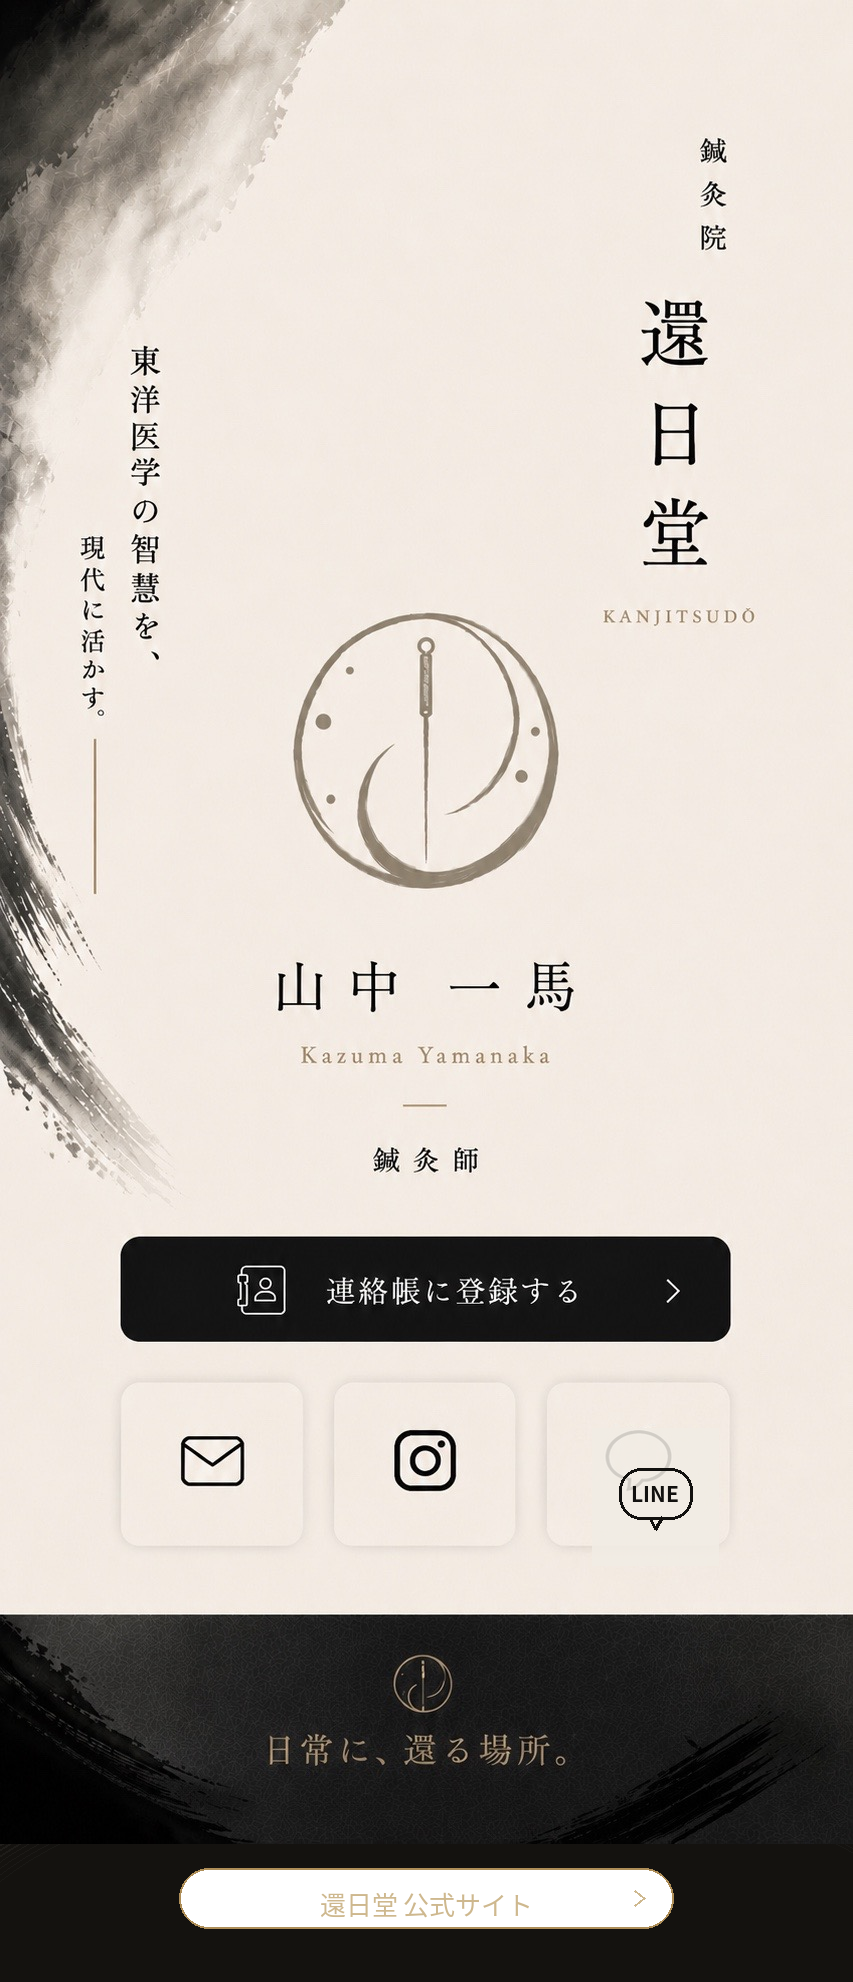
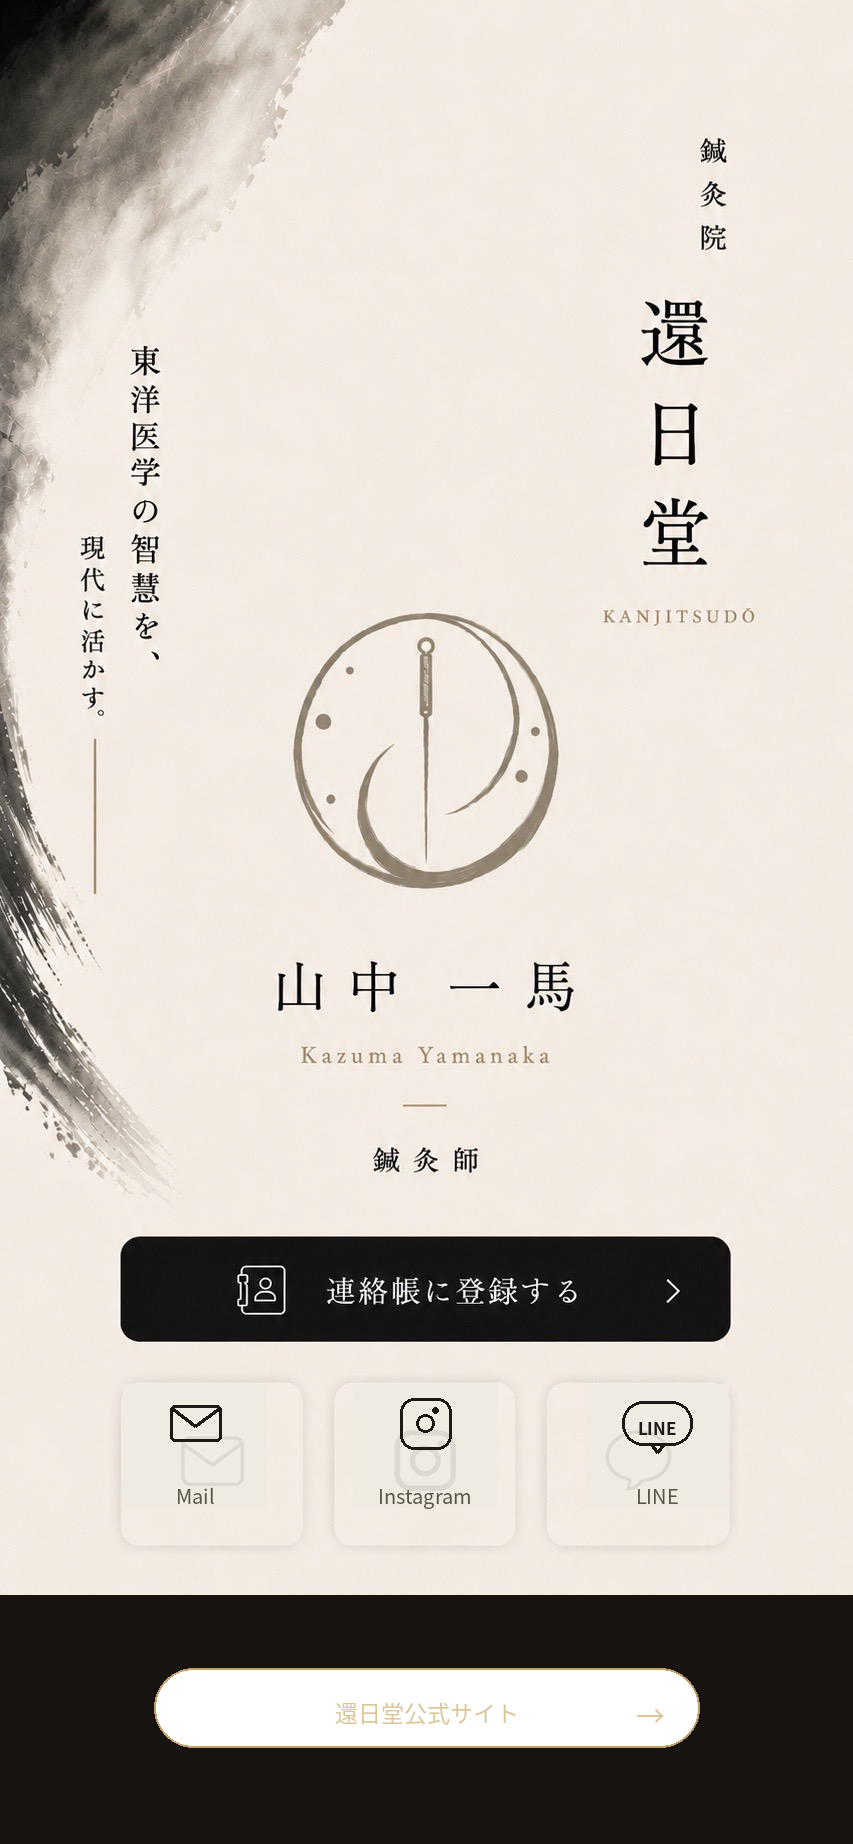
Add files via upload

diff --git a/index.html b/index.html
@@ -5,68 +5,31 @@
 <meta name="viewport" content="width=device-width,initial-scale=1,viewport-fit=cover">
 <title>山中 一馬 | 鍼灸院 還日堂</title>
 <meta name="description" content="鍼灸院 還日堂 鍼灸師 山中一馬のデジタル名刺。">
-
 <style>
 *{box-sizing:border-box}
 html{-webkit-text-size-adjust:100%}
-body{
-  margin:0;
-  background:#eee7dc;
-  font-family:-apple-system,BlinkMacSystemFont,"Helvetica Neue",Arial,sans-serif;
-}
-.page{
-  position:relative;
-  width:100%;
-  max-width:430px;
-  margin:0 auto;
-  background:#f6f0e5;
-  overflow:hidden;
-}
-.design{
-  display:block;
-  width:100%;
-  height:auto;
-  user-select:none;
-  -webkit-user-drag:none;
-}
-.hotspot{
-  position:absolute;
-  z-index:5;
-  display:block;
-  background:rgba(255,255,255,0);
-  border:0;
-  padding:0;
-  cursor:pointer;
-  appearance:none;
-}
-.contact{left:12.0000%;top:63.3584%;width:76.0000%;height:5.3962%;border-radius:12px;}
-.mail{left:11.0000%;top:70.9875%;width:24.0000%;height:10.6993%;border-radius:14px;}
-.instagram{left:38.0000%;top:70.9875%;width:24.0000%;height:10.6993%;border-radius:14px;}
-.line{left:65.0000%;top:70.9875%;width:24.0000%;height:10.6993%;border-radius:14px;}
-.website{left:20.9848%;top:94.2482%;width:57.9132%;height:3.0272%;border-radius:999px;}
-@media(min-width:431px){
-  .page{box-shadow:0 30px 100px rgba(0,0,0,.14)}
-}
+body{margin:0;background:#eee7dc;font-family:-apple-system,BlinkMacSystemFont,"Helvetica Neue",Arial,sans-serif}
+.page{position:relative;width:100%;max-width:430px;margin:0 auto;background:#f6f0e5;overflow:hidden}
+.design{display:block;width:100%;height:auto;user-select:none;-webkit-user-drag:none}
+.hotspot{position:absolute;z-index:5;display:block;background:rgba(255,255,255,0);border:0;padding:0;cursor:pointer;appearance:none}
+.contact{left:11.0000%;top:65.5500%;width:78.0000%;height:5.7500%;border-radius:12px}
+.mail{left:11.1372%;top:73.4816%;width:23.4467%;height:9.4902%;border-radius:14px}
+.instagram{left:38.1008%;top:73.4816%;width:23.4467%;height:9.4902%;border-radius:14px}
+.line{left:65.2989%;top:73.4816%;width:23.4467%;height:9.4902%;border-radius:14px}
+.website{left:18.0539%;top:90.4555%;width:63.8921%;height:4.2842%;border-radius:999px}
+@media(min-width:431px){.page{box-shadow:0 30px 100px rgba(0,0,0,.14)}}
 </style>
 </head>
-
 <body>
 <main class="page">
-
   <img class="design" src="assets/design.png" alt="山中一馬 鍼灸院還日堂 デジタル名刺">
 
   <button class="hotspot contact" type="button" aria-label="連絡帳に登録する" onclick="saveContact()"></button>
-
   <a class="hotspot mail" href="mailto:acumox.zen@gmail.com" aria-label="Mail"></a>
-
   <a class="hotspot instagram" href="https://instagram.com/k__.z.__m" target="_blank" rel="noopener" aria-label="Instagram"></a>
-
   <a class="hotspot line" href="https://line.me/ti/p/~kazuma.31" target="_blank" rel="noopener" aria-label="LINE"></a>
-
-  <a class="hotspot website" href="https://acumoxzen-tech.github.io/kanjitsudo-site/#top" target="_blank" rel="noopener" aria-label="還日堂 公式サイト"></a>
-
+  <a class="hotspot website" href="https://acumoxzen-tech.github.io/kanjitsudo-site/#top" target="_blank" rel="noopener" aria-label="還日堂公式サイト"></a>
 </main>
-
 <script>
 function saveContact(){
   const vcard = `BEGIN:VCARD
@@ -80,18 +43,14 @@ EMAIL:acumox.zen@gmail.com
 URL:https://kanjitsudo.jp
 NOTE:鍼灸院 還日堂 / Kazuma Yamanaka
 END:VCARD`;
-
   const blob = new Blob([vcard], {type:"text/vcard;charset=utf-8"});
   const url = URL.createObjectURL(blob);
   const a = document.createElement("a");
-
   a.href = url;
   a.download = "yamanaka-kazuma.vcf";
-
   document.body.appendChild(a);
   a.click();
   document.body.removeChild(a);
-
   URL.revokeObjectURL(url);
 }
 </script>
